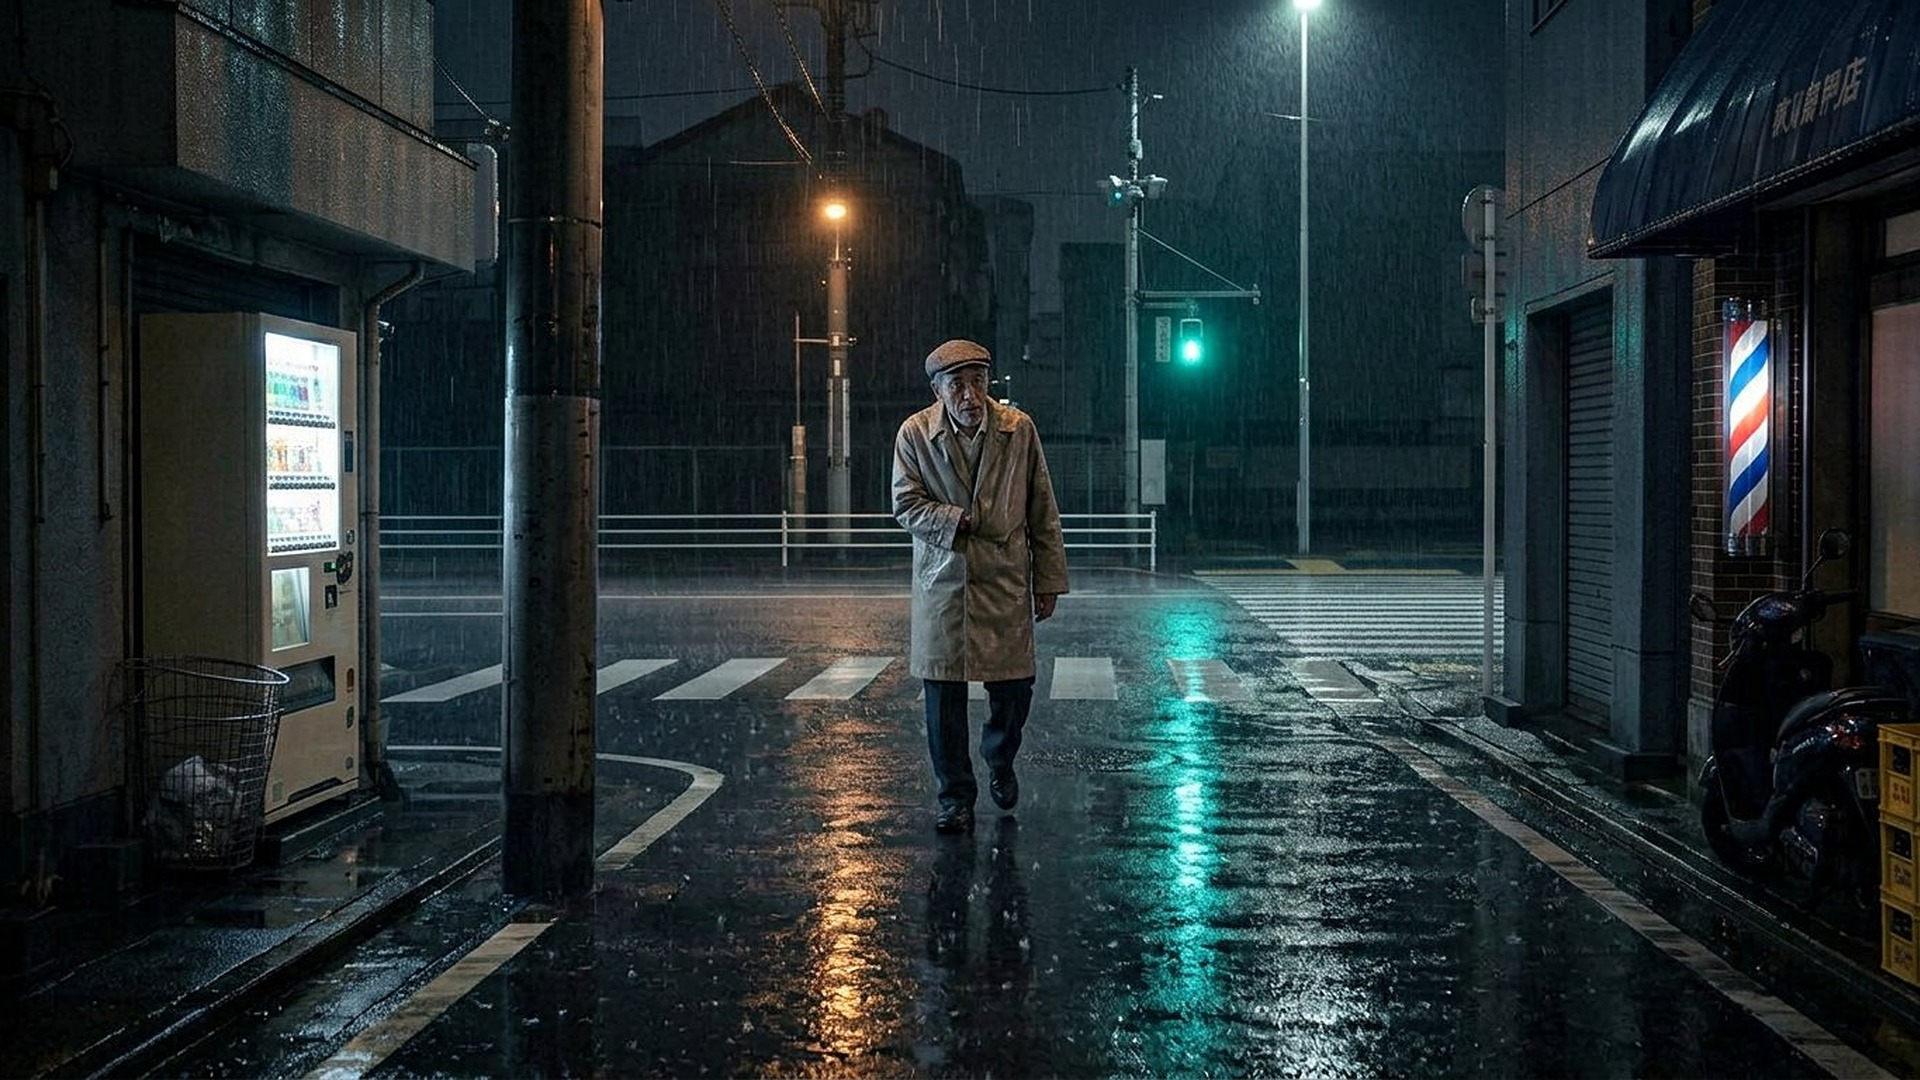
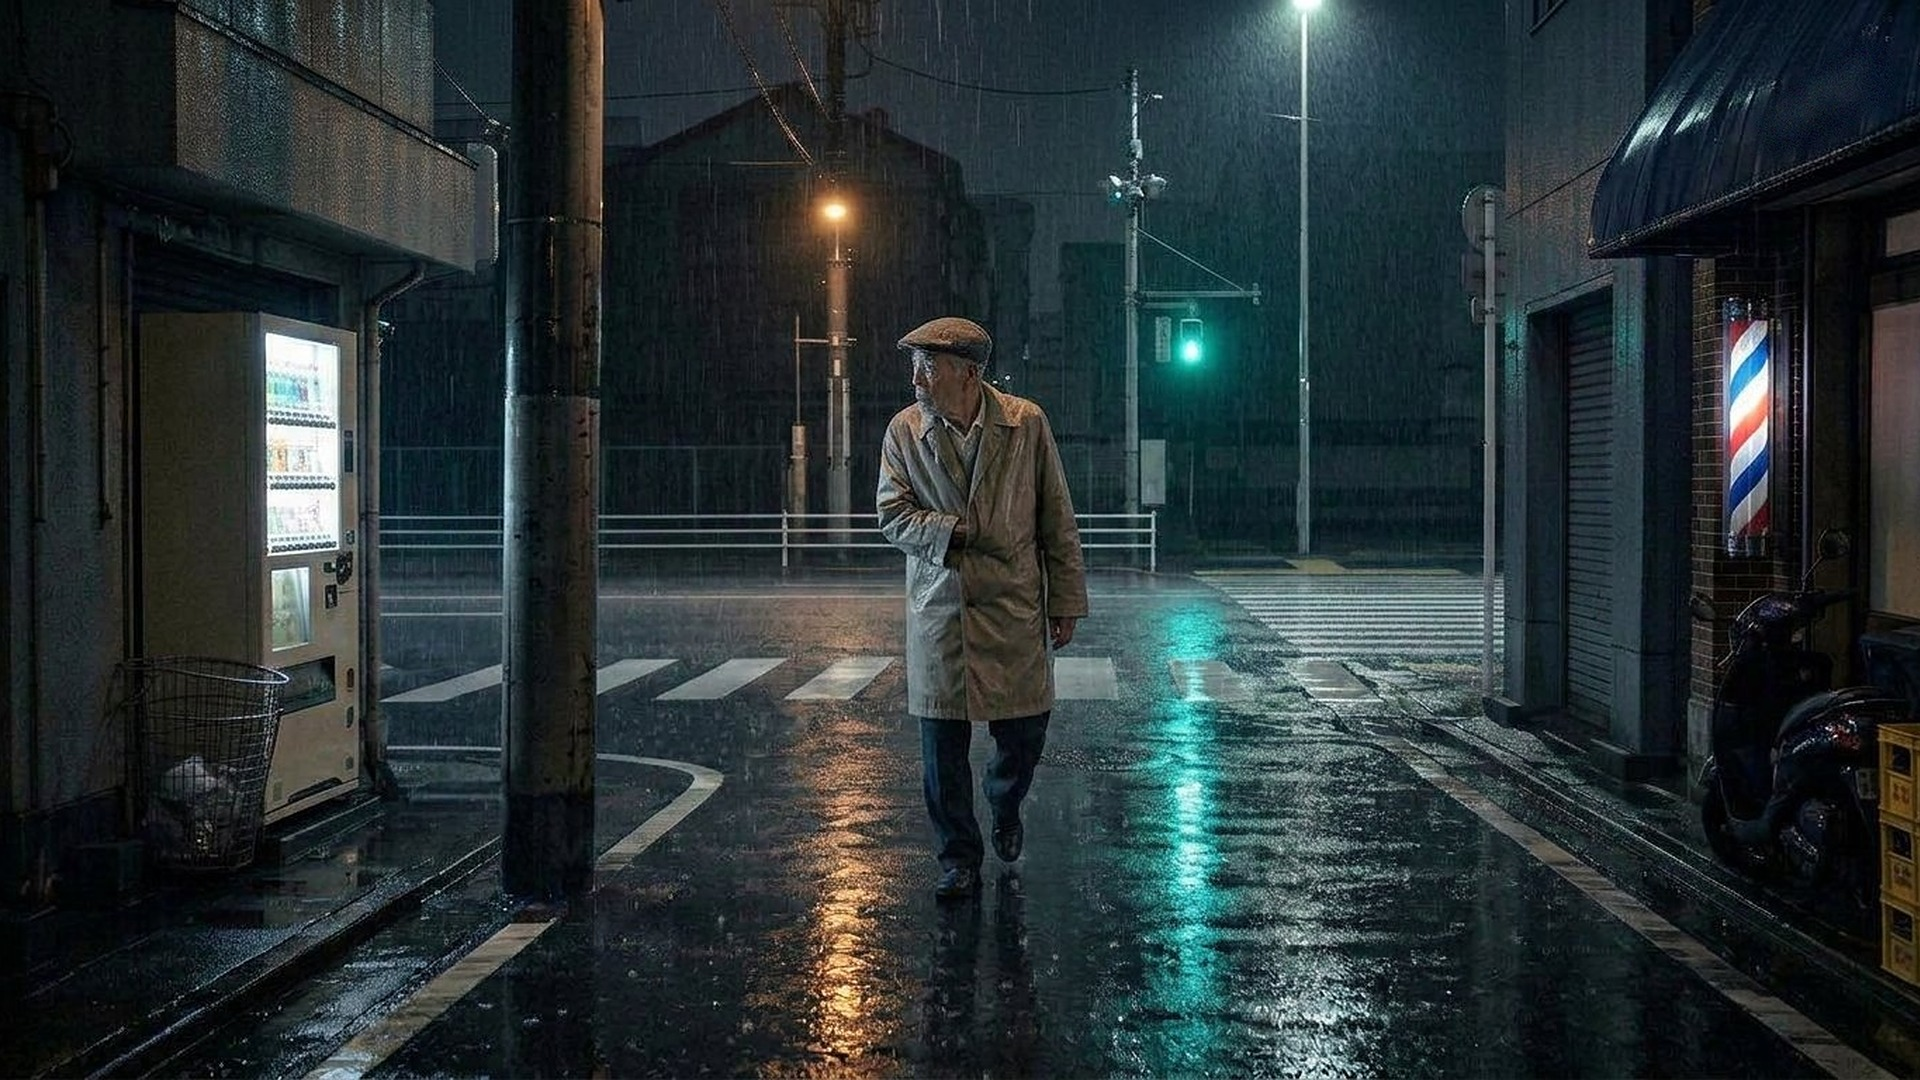
s1_new: complete scene 1 (23/23) + props sheet + contact sheet
Final four shots: 10 the shot (staged a beat after, as the original was),
16 the key (tag 114), 17 she runs, 18 her bag in the rain. 17 and 18 got the
night grade; 18 was regenerated so she runs up the lane toward the bar.
07 replaced with the retake (he glances back over his shoulder), with the
awning's faint lettering softened.

New: style-sheets/props.jpg (hero props cropped from the finished frames) and
contact-sheet.jpg (all 23 in story order). README finalised: status column
dropped, corrections documented. film-depth tests still pass with the full
s1_new set present.

diff --git a/public/film/img/s1_new/README.md b/public/film/img/s1_new/README.md
@@ -12,33 +12,33 @@ scene's 23 shots were all generated again from nothing, using a new set of style
 
 ## Shots
 
-| # | File | Beat | Status |
-|---|------|------|--------|
-| 1 | `01-backstreet.jpg` | A narrow street of shuttered shops (master plate A, from the road) | ✅ |
-| 2 | `02-vending.jpg` | A vending machine hums on the corner; one lit window high up | ✅ |
-| 3 | `03-mara-walks.jpg` | Mara walks fast, arms folded, soaked, no umbrella | ✅ |
-| 4 | `04-mara-phone.jpg` | Her phone lights up: VERA | ✅ |
-| 5 | `05-phone-off.jpg` | She declines it | ✅ |
-| 6 | `328-the-scrap.jpg` | The note: "1.00 Sakai", an address, "just listen." underlined twice | ✅ |
-| 7 | `329-the-lane-the-watch.jpg` | Down the lane to the bar sign; her watch reads 12:45 | ✅ |
-| 8 | `06-barbershop-doorway.jpg` | She slips into the barbershop doorway, behind the scooter and crates | ✅ |
-| 9 | `383-the-empty-lane.jpg` | A crossing chimes for an empty intersection (master plate B, toward the road) | ✅ |
-| 10 | `07-old-man.jpg` | The old man comes in from the road, hand to his side, looking back | ✅ |
-| 11 | `330-the-red-clip.jpg` | She leans out; the red bird clip catches the light | ✅ |
-| 12 | `09-old-man-stops.jpg` | He sees it and stops six metres short; his face changes | ✅ |
-| 13 | `331-he-refuses.jpg` | He shakes his head and turns his back on her to face the road | ✅ |
-| 14 | `332-the-sedan-blocks-the-lane.jpg` | A black sedan blocks the mouth; high beams down the lane | ✅ |
-| 15 | `333-the-white-light.jpg` | Two masked men walk in; he stands in the white light | ✅ |
-| 16 | `10-the-shot.jpg` | A suppressed shot; he folds onto the street | ⏳ |
-| 17 | `12-masked-man-radio.jpg` | "First position done. Moving to second." | ✅ |
-| 18 | `13-taillights-gone.jpg` | They drive off the long way round; tail-lights gone | ✅ |
-| 19 | `14-she-kneels.jpg` | She runs to him; her bag spills across the street | ✅ |
-| 20 | `15-the-grip.jpg` | He presses something brass into her palm | ✅ |
-| 21 | `16-the-key.jpg` | A small brass key on a tag stamped 114 | ⏳ |
-| 22 | `17-she-runs.jpg` | She runs for the amber glow of the bar | ⏳ |
-| 23 | `18-the-flashlight.jpg` | Her bag, open in the rain | ⏳ |
+| # | File | Beat |
+|---|------|------|
+| 1 | `01-backstreet.jpg` | A narrow street of shuttered shops (master plate A, from the road) |
+| 2 | `02-vending.jpg` | A vending machine hums on the corner; one lit window high up |
+| 3 | `03-mara-walks.jpg` | Mara walks fast, arms folded, soaked, no umbrella |
+| 4 | `04-mara-phone.jpg` | Her phone lights up: VERA |
+| 5 | `05-phone-off.jpg` | She declines it |
+| 6 | `328-the-scrap.jpg` | The note: "1.00 Sakai", an address, "just listen." underlined twice |
+| 7 | `329-the-lane-the-watch.jpg` | Down the lane to the bar sign; her watch reads 12:45 |
+| 8 | `06-barbershop-doorway.jpg` | She slips into the barbershop doorway, behind the scooter and crates |
+| 9 | `383-the-empty-lane.jpg` | A crossing chimes for an empty intersection (master plate B, toward the road) |
+| 10 | `07-old-man.jpg` | The old man comes in from the road, hand to his side, looking back |
+| 11 | `330-the-red-clip.jpg` | She leans out; the red bird clip catches the light |
+| 12 | `09-old-man-stops.jpg` | He sees it and stops six metres short; his face changes |
+| 13 | `331-he-refuses.jpg` | He shakes his head and turns his back on her to face the road |
+| 14 | `332-the-sedan-blocks-the-lane.jpg` | A black sedan blocks the mouth; high beams down the lane |
+| 15 | `333-the-white-light.jpg` | Two masked men walk in; he stands in the white light |
+| 16 | `10-the-shot.jpg` | A suppressed shot; he folds onto the street |
+| 17 | `12-masked-man-radio.jpg` | "First position done. Moving to second." |
+| 18 | `13-taillights-gone.jpg` | They drive off the long way round; tail-lights gone |
+| 19 | `14-she-kneels.jpg` | She runs to him; her bag spills across the street |
+| 20 | `15-the-grip.jpg` | He presses something brass into her palm |
+| 21 | `16-the-key.jpg` | A small brass key on a tag stamped 114 |
+| 22 | `17-she-runs.jpg` | She runs for the amber glow of the bar |
+| 23 | `18-the-flashlight.jpg` | Her bag, open in the rain |
 
-✅ = done · ⏳ = still to generate (the set is being made in batches; this table is updated as shots land)
+`contact-sheet.jpg` shows all 23 in story order, for a quick read of the cut.
 
 ## Style sheets (`style-sheets/`)
 
@@ -48,7 +48,7 @@ scene's 23 shots were all generated again from nothing, using a new set of style
 | `old-man-sakai.jpg` | Mr. Sakai's face, grey tweed flat cap, cheap putty-beige vinyl raincoat, white shirt and grey cardigan, the hand pressed to his side |
 | `masked-men-and-sedan.jpg` | Exactly two men: the earpiece leader (black suit, open overcoat, suppressed pistol) and the second man. Also the one black late-1990s executive saloon |
 | `location-kanda-backstreet.jpg` | Master plates A (from the road) and B (toward the road), a plan of the lane with every story position, the geography rules and the look/palette |
-| `props.jpg` | ⏳ Red bird clip, brass key with its 114 tag, the scrap, the bag. Built from the finished inserts |
+| `props.jpg` | The hero props, cropped from the finished frames: the brass key and its 114 tag, the scrap, the red bird clip, the bag with its torn strap, the watch and the VERA phone. It also notes where each one turns up later in the film |
 
 `style-sheets/refs/` holds the separate reference plates (front, back and face views, the sedan, plates A and B).
 Pass them to the image model along with any new or replacement shot so it stays on model.
@@ -62,7 +62,8 @@ Pass them to the image model along with any new or replacement shot so it stays 
   between her and the road. The sedan noses in across the mouth with its high beams down the lane.
 - **Look.** Grounded contemporary Tokyo neo-noir: photographic realism, 12:45 a.m., steady cold rain, wet
   asphalt, practical light only, cool slate and blue-green shadows, restrained 35mm grain.
-- **Text.** No legible signage except the story's own words: VERA, the scrap, 12:45 and 114.
+- **Text.** No legible signage except the story's own words: VERA, the scrap, 12:45 and 114. (The barbershop
+  awning carries a faint shop name in several frames. It comes from plate B and is too small to read at frame size.)
 
 ## Before swapping any of these into the film
 
@@ -98,3 +99,7 @@ Pass them to the image model along with any new or replacement shot so it stays 
 | `330-the-red-clip` | Flopped left to right, since nothing in the frame has text. The flip puts the clip on her LEFT temple, as on every other shot, and points her eyeline at the road where the old man is. It also places the barber pole on the road side of the doorway, matching plate A. |
 | `06-barbershop-doorway` | Fixed with a follow-up image edit. The first take put a vending machine on the barbershop's side of the lane, breaking the geography, and had Mara standing lit in the doorway. The edit removed the machine and pressed her back into the shadow, looking towards the road. |
 | `333-the-white-light` | Fixed with a follow-up image edit. The first take had the old man side-on, facing the doorway where Mara hides. The edit turns his back to her, facing the two men, which is the protective stance the script describes. |
+| `07-old-man` | Fixed with a follow-up image edit. In the first take he never looked back, so the edit turns his head to glance over his shoulder at the road. The faint lettering on the awning, larger in this frame because it is closer to camera, was softened by hand so it can't be read. |
+| `10-the-shot` | The image model's content filter refused the first version (the pistol lowering as he falls). The shot is staged a beat later instead, as the original `s1` frame was: the old man down in the foreground, the two men standing in the headlights. |
+| `17-she-runs`, `18-the-flashlight` | Both came out at dusk exposure. A night grade (a midtone gamma pull plus the graduated sky grade) brings them in line with the master plates; the lamps keep their highlights. |
+| `18-the-flashlight` | The first take looked out to the road, so she was running the wrong way. It was regenerated using 17's view up the lane, so she runs towards the bar. |
